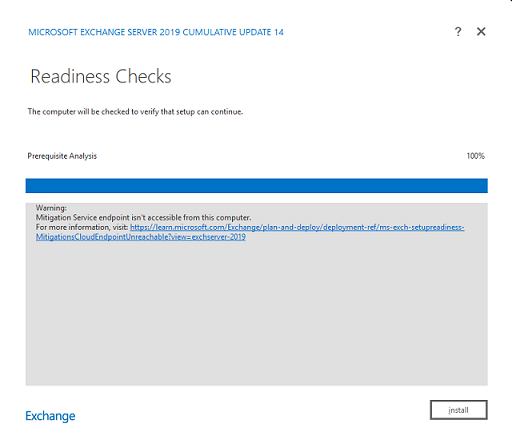
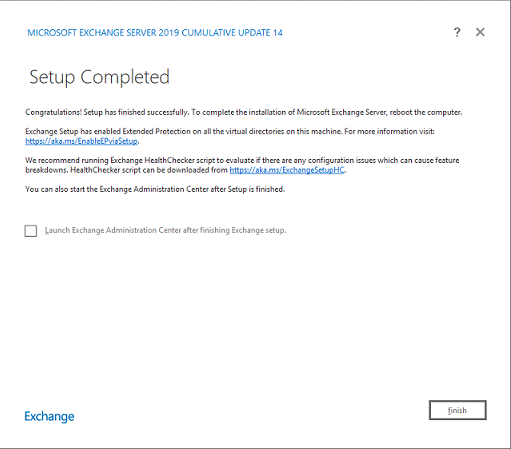
c
c

diff --git a/content/posts/Exchange 2019/index.md b/content/posts/Exchange 2019/index.md
@@ -8,7 +8,7 @@ tags: ["Windows Server"]
 showTableOfContents: true
 --- 
 
-## Add New User to AD 
+## Add New User to AD for Exchange
 
 1. Tools > Active Directory Users and Computers
 ![img1](images/1.png)
@@ -108,8 +108,7 @@ cd f:
 
 ### DC sync 
 
-if you have many dc servers you need sync 
-
+if you have many DC servers you need sync  
 ```
 repadmin /syncall 
 ```
@@ -134,17 +133,19 @@ its my site domain `641514.cc` for other domain add command :
 
 ### Back to DC 
 
-you can see change
+1. you can see change:
 ![img18](images/18.png)
 
-resync now 
+2. resync now 
 ```
 repadmin /syncall 
 ```
 ![img16](images/16.png)
 
 
-### Back to Exchange Server
+### Install ISO
+
+Back to Exchange Server and Install iso 
 
 now i can run `setup.exe` > Next :
 ![img19](images/19.png)
@@ -167,9 +168,117 @@ now i can run `setup.exe` > Next :
 
 ![img29](images/29.png)
 
+Error its OK (i dont have connect to internet)
 ![img30](images/30.png)
+Done
+![img31](images/31.png)
+
+Now test if all ok
+![img32](images/32.png)
+
+all ok "true"
+![img33](images/33.png)
 
 
+## On DC Add DNS Records
+
+1. DNS > Server > Forward Lookup Zones > dan.local > New Hosts (A or AAAA) > Add `192.168.1.169` (IP Exchange server) > Add Host
+![img34](images/34.png)
+
+2. Add autodiscover for Outlook 
+![img35](images/35.png)
+
+3. DNS > Server > Forward Lookup Zones > dan.local > _tcp > Other New Records > SRV > Create Record
+![img36](images/36.png)
+
+4. Service: `_autodiscover` > Protocol: `_tcp` > Port `443` > Host `mail.dan.local` > Done
+![img37](images/37.png)
+5. Done
+![img38](images/38.png)
+
+6. Need Add MX record: 
+![img39](images/39.png)
 
 
+### Login on Web Admin Exchange Center
 
+1. Open web browser and write
+```
+https://mail.dan.local/ecp
+```
+2. login with exchange account:
+![img40](images/40.png)
+
+3. Set time:
+![img41](images/41.png)
+
+4. Now Need Create address mail policies:
+![img42](images/42.png)
+
+5. mailflow > email address policies > +
+![img43](images/43.png)
+
+6. Click on plus 
+![img44](images/44.png)
+
+7. Select your fotmat and click on Save
+![img45](images/45.png)
+
+8. Give to police name `local` and click Save 
+![img46](images/46.png)
+
+9. Warning say i need apply police
+![img47](images/47.png)
+
+10. Apply police 
+![img48](images/48.png)
+
+11. Done
+![img49](images/49.png)
+
+
+### Move the DB to another disk 
+
+1. First i need create folders `DB` after in folder `LOGS`, `EDB`
+![img50](images/50.png)
+
+2. First I need unmount database
+![img51](images/51.png)
+
+3. Dismount it
+![img52](images/52.png)
+
+4. Done
+![img53](images/53.png)
+
+5. Open Exchange Management Shell > write `Get-MailboxDatabase`
+![img54](images/54.png)
+
+6. Move database to disk d:
+```
+Move-DatabasePath -Identity DB -EdbFilePath d:\DB\EDB\db01.edb -LogFolderPath d:\DB\LOGS
+```
+![img55](images/55.png)
+
+Key for EX2019
+```
+YCQY7-BNTF6-R337H-69FGX-P39TY
+```
+7. Watch if all OK
+![img56](images/56.png)
+
+8. Now Mount and Done
+![img57](images/57.png)
+
+
+### Add Mail to AD User 
+
+1. recipients > + > Alies: `test` > Browser > Save
+![img58](images/58.png)
+
+2. Go to Outlook and send  
+```
+https://mail.dan.local/owa
+```
+Test to send messege , all ok 
+![img59](images/59.png)
